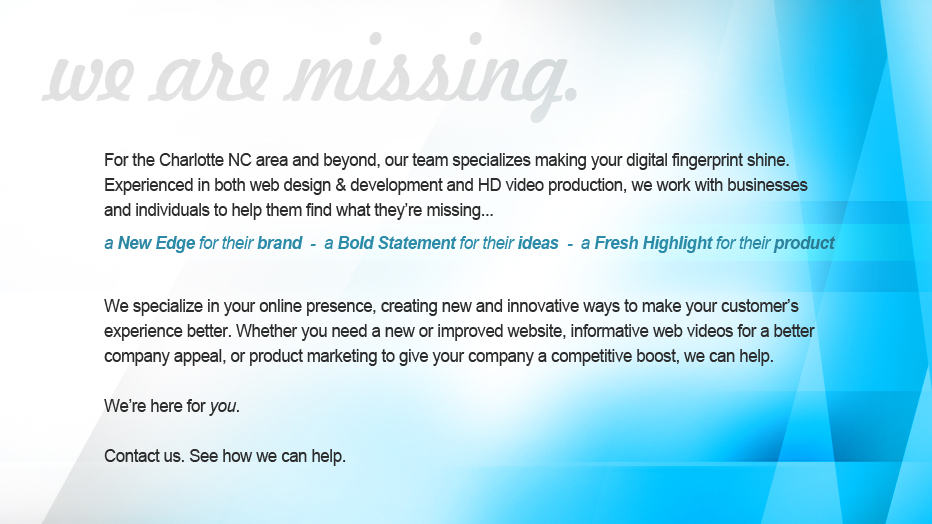
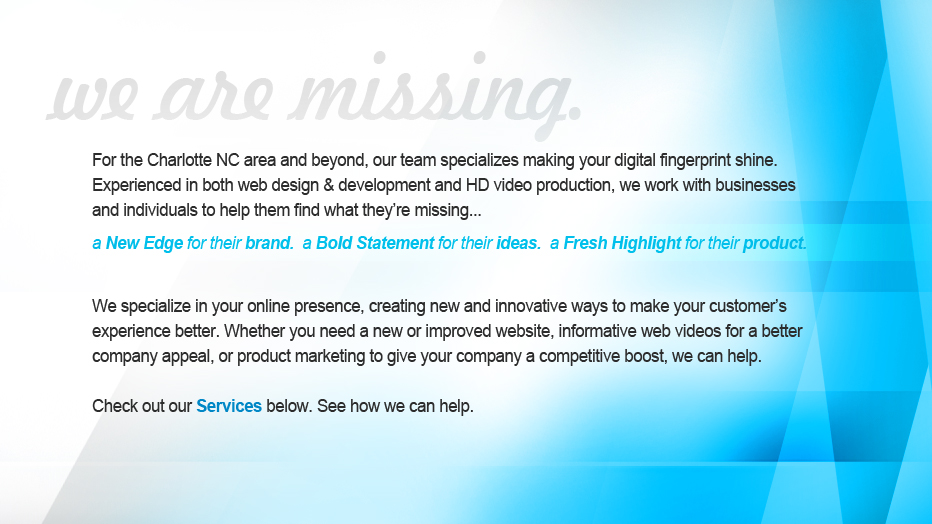
some random stuff

diff --git a/app/assets/stylesheets/flexslider.css b/app/assets/stylesheets/flexslider.css
@@ -41,7 +41,7 @@ html[xmlns] .slides {display: block;}
 
 /* FlexSlider Default Theme
 *********************************/
-.flexslider {margin: 40px 0 60px; background: #fff; border: 4px solid #fff; position: relative; -webkit-border-radius: 4px; -moz-border-radius: 4px; -o-border-radius: 4px; border-radius: 4px; box-shadow: 0 1px 4px rgba(0,0,0,.2); -webkit-box-shadow: 0 1px 4px rgba(0,0,0,.2); -moz-box-shadow: 0 1px 4px rgba(0,0,0,.2); -o-box-shadow: 0 1px 4px rgba(0,0,0,.2); zoom: 1;}
+.flexslider {margin: 80px 0 60px; background: #fff; border: 4px solid #fff; position: relative; -webkit-border-radius: 4px; -moz-border-radius: 4px; -o-border-radius: 4px; border-radius: 4px; box-shadow: 0 1px 4px rgba(0,0,0,.2); -webkit-box-shadow: 0 1px 4px rgba(0,0,0,.2); -moz-box-shadow: 0 1px 4px rgba(0,0,0,.2); -o-box-shadow: 0 1px 4px rgba(0,0,0,.2); zoom: 1;}
 .flex-viewport {max-height: 2000px; -webkit-transition: all 1s ease; -moz-transition: all 1s ease; transition: all 1s ease;}
 .loading .flex-viewport {max-height: 300px;}
 .flexslider .slides {zoom: 1;}

diff --git a/app/assets/stylesheets/custom.css.scss b/app/assets/stylesheets/custom.css.scss
@@ -2,6 +2,7 @@
 
 $grayMediumLight: #eaeaea;
 $grayText: #999;
+$titleRed: #E23E3E;
 
 /* universal */
 
@@ -93,7 +94,7 @@ a:hover {
   letter-spacing: -2px;
   margin-bottom: -30px;
   text-align: center;
-  color: #999;
+  color: $titleRed;
 }
 
 .webTitle {
@@ -136,3 +137,6 @@ a:hover {
   color: #E23E3E;
   }
 }
+
+.footerText {margin-right:10px;}
+.navbar .nav {bottom:75px;}

diff --git a/config/routes.rb b/config/routes.rb
@@ -6,6 +6,7 @@ MissingArtist::Application.routes.draw do
   match '/web', to: 'static_pages#web'
   match '/about', to: 'static_pages#about'
   match '/contact', to: 'static_pages#contact'
+  match '/services', to: 'static_pages#services'
   # The priority is based upon order of creation:
   # first created -> highest priority.
 

diff --git a/app/controllers/static_pages_controller.rb b/app/controllers/static_pages_controller.rb
@@ -13,4 +13,7 @@ class StaticPagesController < ApplicationController
 
   def about
   end
+
+  def services
+  end
 end
